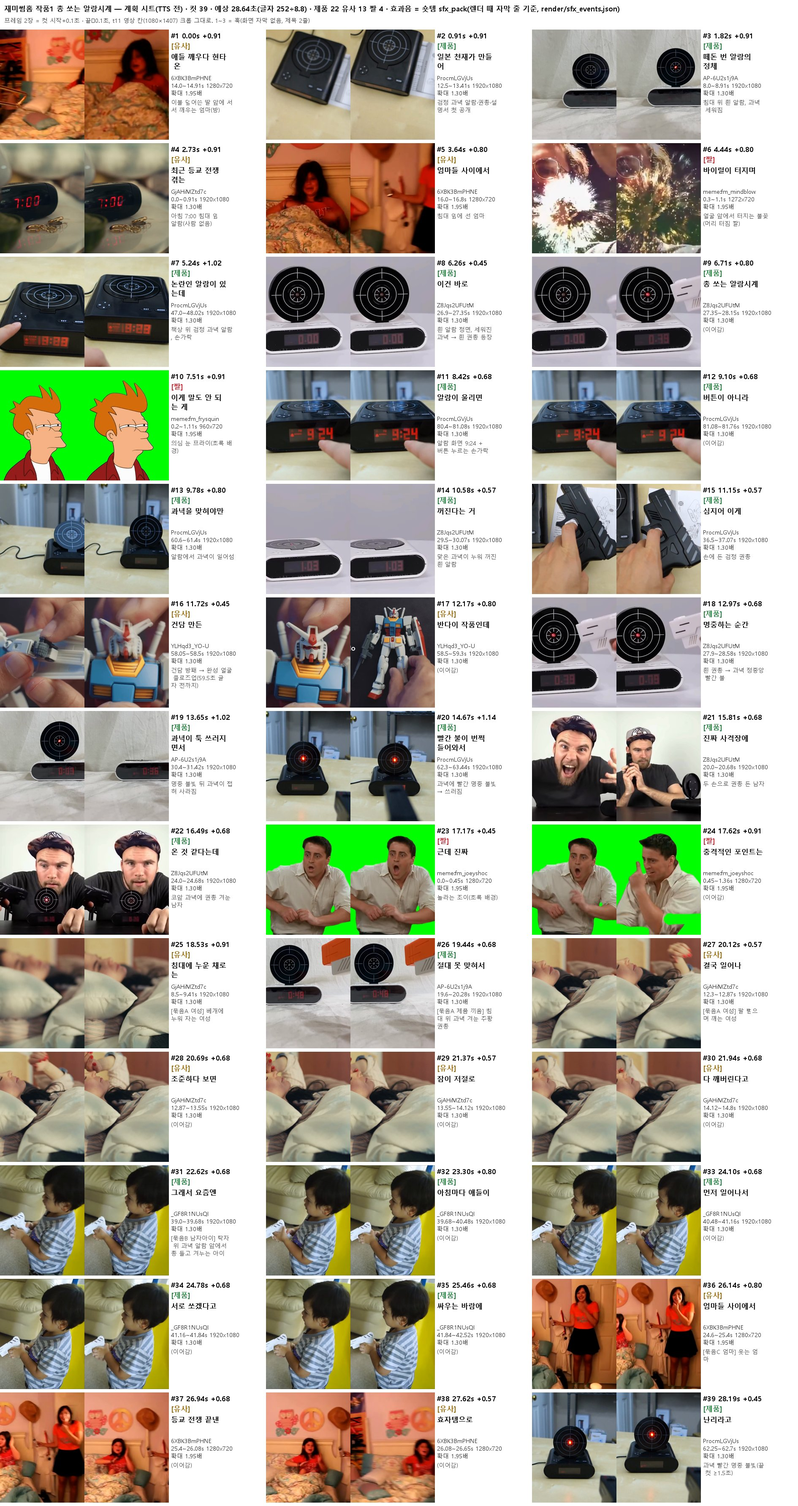
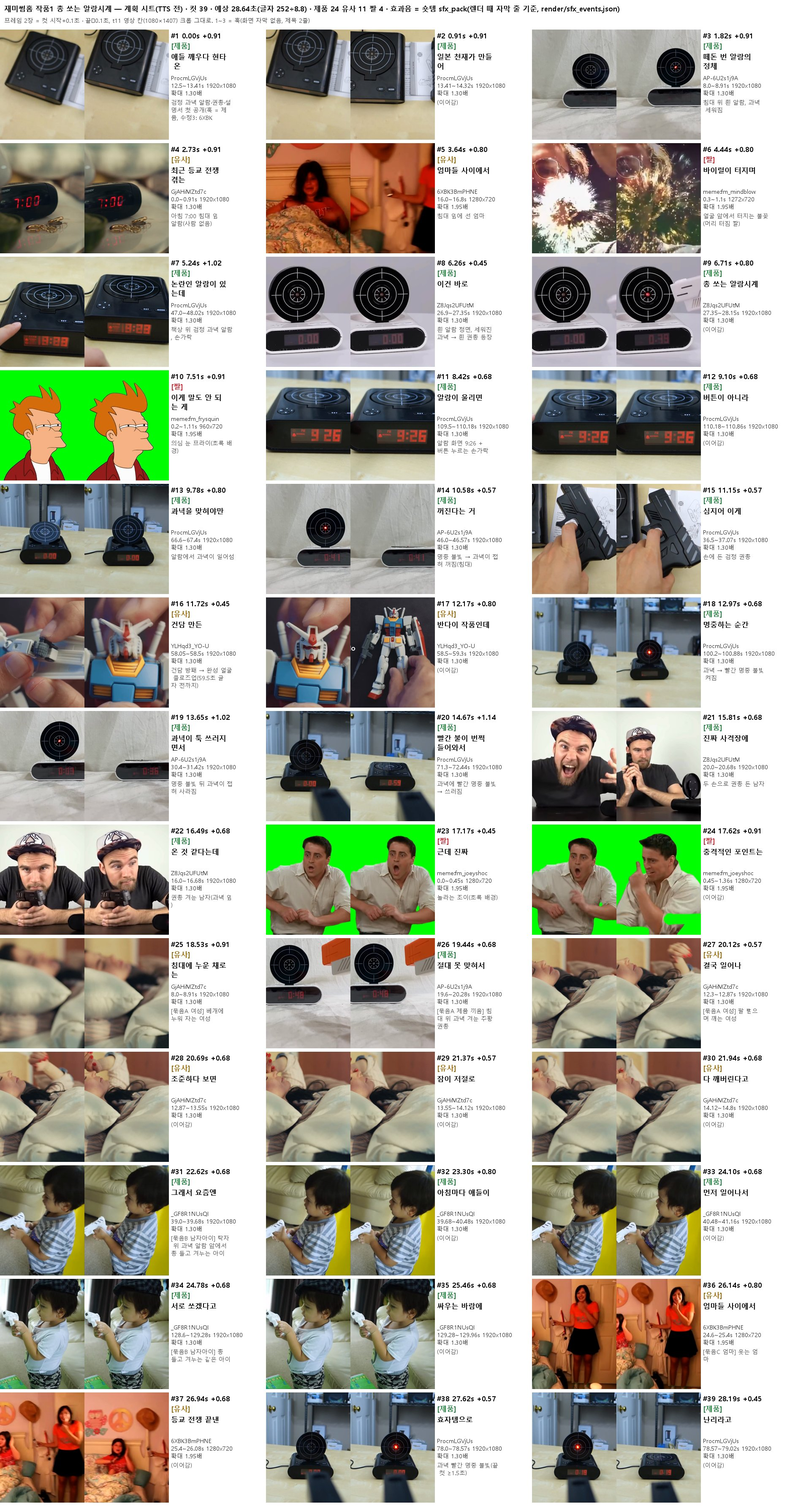
재미썸홈 작품1 수정3: 같은 소스 ±3초 중복 0(check_overlap)·효과음 density low 9발·끝 줄만 말속도 보정, 결과물 16호 갱신 (관제 097)
Claude-Session: https://claude.ai/code/session_01BTrZqzTa3Berb8VK4gs4B4

diff --git a/channel/evenshopping/작품1_총알람/render.py b/channel/evenshopping/작품1_총알람/render.py
@@ -19,9 +19,10 @@ sys.path.insert(0, str(ROOT)); sys.path.insert(0, str(D))
 import make_plan as MP  # noqa: E402
 from tools.calcopy import narr_video as N  # noqa: E402
 
-V3 = "--v3" in sys.argv          # 수정2(사장님 10-17): 묶음=한 인물·이웃 토막 한 컷·BGM 없음·끝 컷 길게. TTS 는 render_v2 것 그대로
+V4 = "--v4" in sys.argv          # 수정3(사장님 10-17): 같은 소스 ±3초 중복 금지·효과음 density=low·끝 줄 말속도 줄별 보정
+V3 = "--v3" in sys.argv or V4          # 수정2(사장님 10-17): 묶음=한 인물·이웃 토막 한 컷·BGM 없음·끝 컷 길게. TTS 는 render_v2 것 그대로
 V2 = "--v2" in sys.argv or V3          # 사장님 10-17 수정본: TTS 단계 속도↑(atempo ≤1.2)·컷 3개 교체 → render_v2·바탕화면 _수정
-R = MP.SRC / ("render_v3" if V3 else "render_v2" if V2 else "render")
+R = MP.SRC / ("render_v4" if V4 else "render_v3" if V3 else "render_v2" if V2 else "render")
 TTS_TEMPO = 1.4 if V2 else None   # Typecast output.audio_tempo
 PRE = MP.PRESET
 VOICE = "tc_68257f68bc6e3c161ab5078d"   # 필재(페이블 10-17)
@@ -29,7 +30,7 @@ CPS = PRE["measured"]["speech_rate"]["chars_per_s_total"]   # 8.8
 BGM = ROOT / "shopping_shorts/assets/bgm_lib/qiuqiu.mp3"
 BGM_DB_BELOW = 17.0                      # bench A.openvoice 17.02(말 p90 − 바닥)
 TARGET_LUFS, TP = PRE["measured"]["lufs"]["I"], -2.0
-DESK = Path.home() / "Desktop" / ("칼카피_재미썸홈_총쏘는알람시계_수정2.mp4" if "--v3" in sys.argv else "칼카피_재미썸홈_총쏘는알람시계_수정.mp4" if "--v2" in sys.argv else "칼카피_재미썸홈_총쏘는알람시계.mp4")
+DESK = Path.home() / "Desktop" / ("칼카피_재미썸홈_총쏘는알람시계_수정3.mp4" if "--v4" in sys.argv else "칼카피_재미썸홈_총쏘는알람시계_수정2.mp4" if "--v3" in sys.argv else "칼카피_재미썸홈_총쏘는알람시계_수정.mp4" if "--v2" in sys.argv else "칼카피_재미썸홈_총쏘는알람시계.mp4")
 FPS = 30
 # 스파인 칸 → sfx_pack 역할(ROLE_GROUPS). "이게 말도 안 되는 게"=limit(둥) · 반전=twist(둥) · 결과=more(띠링) — 페이블 10-17
 SFX_ROLES = ["title", "bait", "reveal", "limit", "more", "more", "twist", "land"]
@@ -41,6 +42,16 @@ def run(cmd):
 
 def run_bytes(cmd):
     return subprocess.run(cmd, check=True, stdin=subprocess.DEVNULL, capture_output=True).stdout
+
+
+def line_spans(timed, lines, dur):
+    """줄(문장)마다 [시작, 다음 줄 시작) — time_steps 가 받아쓰기로 고정한 줄 시작."""
+    st = [next(s["t0"] for s in timed if s["line"] == li) for li in range(len(lines))]
+    return [(st[i], st[i + 1] if i + 1 < len(st) else dur) for i in range(len(st))]
+
+
+def line_rates(timed, lines, dur):
+    return [round(MP.nchar(l) / (b - a), 2) for l, (a, b) in zip(lines, line_spans(timed, lines, dur))]
 
 
 def dur_of(p):
@@ -83,8 +94,38 @@ def main():
         while used >= MP.nchar(lines[li]):
             li, used = li + 1, 0
         steps.append({"text": c[0], "chars": n, "new_cut": True, "line": li}); used += n
+    if V4 and (MP.SRC / "render_v3" / "narr.wav.asr.json").exists():
+        # 같은 TTS·같은 atempo = 같은 나레(md5 같음). 받아쓰기는 매번 시각이 달라(실측 24.4↔26.3) 수정2 것을 그대로 쓴다 — 쉼 실측(24.22~24.44 쉼)과 맞는 판
+        shutil.copy(MP.SRC / "render_v3" / "narr.wav.asr.json", R / "narr.wav.asr.json")
     timed, dur = N.time_steps(steps, str(narr), lines=lines)
-    END = round(dur + (1.2 if V3 else 0.4), 3)   # 수정2: 끝 컷(과녁 명중) ≥1.5초
+    line_rate_before = line_rates(timed, lines, dur)
+    if V4:
+        # 끝 두 줄 중 평균(8.8)보다 5% 넘게 빠른 줄만 그 구간을 늘린다(atempo<1) — 전체 일괄 대신 줄별 보정
+        spans = line_spans(timed, lines, dur)
+        slow = {li: round(CPS / r, 4) for li, r in enumerate(line_rate_before) if li >= len(lines) - 2 and r > CPS * 1.05}
+        if slow:
+            narr2 = R / "narr_lines.wav"
+            parts_a, labs = [], []
+            for li, (a_, b_) in enumerate(spans):
+                f = slow.get(li)
+                parts_a.append(f"[0:a]atrim={a_:.3f}:{b_:.3f},asetpts=PTS-STARTPTS{',atempo=' + str(f) if f else ''}[l{li}]"); labs.append(f"[l{li}]")
+            run(["ffmpeg", "-y", "-i", str(narr), "-filter_complex", ";".join(parts_a) + ";" + "".join(labs) + f"concat=n={len(labs)}:v=0:a=1[o]",
+                 "-map", "[o]", "-ar", "44100", str(narr2)])
+            shutil.copy(narr2, narr)
+            # ★받아쓰기로 다시 재지 않는다 — 제미나이 시각은 늘린 뒤 줄 시작을 2초 늦게 잡았다(실측 24.4→26.3).
+            #   늘린 구간 안의 시각만 비율대로 옮긴다(앞 줄들은 그대로).
+            def remap(t):
+                out_t, shift = t, 0.0
+                for li, (a_, b_) in enumerate(spans):
+                    f = slow.get(li)
+                    if f and t > a_:
+                        shift += (min(t, b_) - a_) * (1 / f - 1)
+                return round(t + shift, 3)
+            timed = [{**x, "t0": remap(x["t0"]), "t1": remap(x["t1"])} for x in timed]
+            dur = dur_of(narr)
+        print("줄별 보정", slow)
+    line_rate_after = line_rates(timed, lines, dur)
+    END = round(dur + (0.5 if V4 else 1.2 if V3 else 0.4), 3)   # 수정2: 끝 컷(과녁 명중) ≥1.5초
     timed[-1]["t1"] = END
 
     # 재료: 토막마다 컷 1개, t11 영상 칸 비율 크롭 → 1080×1407, 원음 없음, 프레임 정확
@@ -152,8 +193,8 @@ def main():
                     "caption_lines": [c["caption"] for c in mine], "cap_durs": [round(c["t1"] - c["t0"], 3) for c in mine],
                     "cap_lead": 0.0, "cap_offset": 0.0, "role": roles[li]})
     pname, pdir = SP.pack_for(0)
-    pack = {"name": pname, "dir": pdir, "density": "normal", "level": "normal", "mute_beats": []}
-    plan = SP.plan_events(stl)
+    pack = {"name": pname, "dir": pdir, "density": "low" if V4 else "normal", "level": "normal", "mute_beats": []}
+    plan = SP.plan_events(stl, density=pack["density"])
     evs = SP.events(stl, pack)
     (R / "sfx_events.json").write_text(json.dumps({"pack": pname, "plan": plan, "events": evs, "timeline": stl}, ensure_ascii=False, indent=1), encoding="utf-8")
     ins, flt, lab = ["-i", str(narr), "-stream_loop", "-1", "-i", str(BGM)], [], []
@@ -185,7 +226,7 @@ def main():
     fI, fpk = lufs(final)
     tsum = {k: round(sum(g["dur"] for g in groups if g["kind"] == k), 2) for k in ("제품", "유사", "짤")}
     rep = {"final": str(final), "desktop": str(DESK), "md5": md5, "dur": dur_of(final), "lufs": fI, "peak_dbfs": fpk, "tempo": tempo,
-           "cps_out": round(chars / dn, 2), "pieces": len(cuts), "cuts": len(groups), "cut_median": round(sorted(g["dur"] for g in groups)[len(groups) // 2], 3), "cut_min": min(g["dur"] for g in groups), "bgm": "on" if bgm_on else "none", "last_group": [g["dur"] for g in groups if g["pieces"][0] >= 31],
+           "cps_out": round(chars / dn, 2), "pieces": len(cuts), "cuts": len(groups), "cut_median": round(sorted(g["dur"] for g in groups)[len(groups) // 2], 3), "cut_min": min(g["dur"] for g in groups), "bgm": "on" if bgm_on else "none", "sfx_count": len(evs), "line_rate_before": line_rate_before, "line_rate_after": line_rate_after, "last_group": [g["dur"] for g in groups if g["pieces"][0] >= 31],
            "time_by_kind": tsum, "max_caption": max(len(c["caption"]) for c in cuts), "bgm_gain_db": round(g, 2), "mix_gain_db": round(gain, 2)}
     (R / "timeline.json").write_text(json.dumps({"report": rep, "cuts": cuts, "groups": groups, "tl": tl}, ensure_ascii=False, indent=1), encoding="utf-8")
     print(json.dumps(rep, ensure_ascii=False))

diff --git a/channel/evenshopping/작품1_총알람/make_plan.py b/channel/evenshopping/작품1_총알람/make_plan.py
@@ -34,8 +34,8 @@ SENTENCES = [
 # (자막 조각, 칸, 소스, 시작초, crop_x, 효과음, 화면에 보이는 것)
 KID = "_GF8R1NUsQI"
 CUTS = [   # 수정2(사장님 10-17): "+" = 앞 컷을 끊지 않고 이어감(자막만 바뀜). 이야기 한 묶음 = 한 인물·한 영상 줄기.
-    ("애들 깨우다 현타 온", "유사", "6XBK3BmPHNE", 14.0, 400, "", "이불 덮어쓴 딸 앞에 서서 깨우는 엄마(방)"),
-    ("일본 천재가 만들어", "제품", "ProcmLGVjUs", 12.5, None, "", "검정 과녁 알람·권총·설명서 첫 공개"),
+    ("애들 깨우다 현타 온", "제품", "ProcmLGVjUs", 12.5, None, "", "검정 과녁 알람·권총·설명서 첫 공개(훅 = 제품, 수정3: 6XBK 0초/4초 중복 제거)"),
+    ("일본 천재가 만들어", "+", "+", 0, None, "", "(이어감)"),
     ("떼돈 번 알람의 정체", "제품", "AP-6U2s1j9A", 8.0, None, "", "침대 위 흰 알람, 과녁 세워짐"),
     ("최근 등교 전쟁 겪는", "유사", "GjAHiMZtd7c", 0.0, None, "", "아침 7:00 침대 옆 알람(사람 없음)"),
     ("엄마들 사이에서", "유사", "6XBK3BmPHNE", 16.0, 420, "", "침대 옆에 선 엄마"),
@@ -44,21 +44,21 @@ CUTS = [   # 수정2(사장님 10-17): "+" = 앞 컷을 끊지 않고 이어감(
     ("이건 바로", "제품", "Z8Jqs2UFUtM", 26.9, None, "", "흰 알람 정면, 세워진 과녁 → 흰 권총 등장"),
     ("총 쏘는 알람시계", "+", "+", 0, None, "", "(이어감)"),
     ("이게 말도 안 되는 게", "짤", "meme:fm_frysquint", 0.2, None, "", "의심 눈 프라이(초록 배경)"),
-    ("알람이 울리면", "제품", "ProcmLGVjUs", 80.4, None, "", "알람 화면 9:24 + 버튼 누르는 손가락"),
+    ("알람이 울리면", "제품", "ProcmLGVjUs", 109.5, None, "", "알람 화면 9:26 + 버튼 누르는 손가락"),
     ("버튼이 아니라", "+", "+", 0, None, "", "(이어감)"),
-    ("과녁을 맞혀야만", "제품", "ProcmLGVjUs", 60.6, None, "", "알람에서 과녁이 일어섬"),
-    ("꺼진다는 거", "제품", "Z8Jqs2UFUtM", 29.5, None, "", "맞은 과녁이 누워 꺼진 흰 알람"),
+    ("과녁을 맞혀야만", "제품", "ProcmLGVjUs", 66.6, None, "", "알람에서 과녁이 일어섬"),
+    ("꺼진다는 거", "제품", "AP-6U2s1j9A", 46.0, None, "", "명중 불빛 → 과녁이 접혀 꺼짐(침대)"),
     ("심지어 이게", "제품", "ProcmLGVjUs", 36.5, None, "", "손에 든 검정 권총"),
     ("건담 만든", "유사", "YLHqd3_YO-U", 58.05, None, "", "건담 방패 → 완성 얼굴 클로즈업(59.5초 글자 전까지)"),
     ("반다이 작품인데", "+", "+", 0, None, "", "(이어감)"),
-    ("명중하는 순간", "제품", "Z8Jqs2UFUtM", 27.9, 640, "", "흰 권총 → 과녁 정중앙 빨간 불"),
+    ("명중하는 순간", "제품", "ProcmLGVjUs", 100.2, None, "", "과녁 → 빨간 명중 불빛 켜짐"),
     ("과녁이 툭 쓰러지면서", "제품", "AP-6U2s1j9A", 30.4, None, "", "명중 불빛 뒤 과녁이 접혀 사라짐"),
-    ("빨간 불이 번쩍 들어와서", "제품", "ProcmLGVjUs", 62.3, None, "", "과녁에 빨간 명중 불빛 → 쓰러짐"),
+    ("빨간 불이 번쩍 들어와서", "제품", "ProcmLGVjUs", 71.3, None, "", "과녁에 빨간 명중 불빛 → 쓰러짐"),
     ("진짜 사격장에", "제품", "Z8Jqs2UFUtM", 20.0, None, "", "두 손으로 권총 든 남자"),
-    ("온 것 같다는데", "제품", "Z8Jqs2UFUtM", 24.0, None, "", "코앞 과녁에 권총 겨눈 남자"),
+    ("온 것 같다는데", "제품", "Z8Jqs2UFUtM", 16.0, None, "", "권총 겨눈 남자(과녁 옆)"),
     ("근데 진짜", "짤", "meme:fm_joeyshock", 0.0, None, "", "놀라는 조이(초록 배경)"),
     ("충격적인 포인트는", "+", "+", 0, None, "", "(이어감)"),
-    ("침대에 누운 채로는", "유사", "GjAHiMZtd7c", 8.5, None, "", "[묶음A 여성] 베개에 누워 자는 여성"),
+    ("침대에 누운 채로는", "유사", "GjAHiMZtd7c", 8.0, None, "", "[묶음A 여성] 베개에 누워 자는 여성"),
     ("절대 못 맞혀서", "제품", "AP-6U2s1j9A", 19.6, 900, "", "[묶음A 제품 끼움] 침대 위 과녁 겨눈 주황 권총"),
     ("결국 일어나", "유사", "GjAHiMZtd7c", 12.3, None, "", "[묶음A 여성] 팔 뻗으며 깨는 여성"),
     ("조준하다 보면", "+", "+", 0, None, "", "(이어감)"),
@@ -67,12 +67,12 @@ CUTS = [   # 수정2(사장님 10-17): "+" = 앞 컷을 끊지 않고 이어감(
     ("그래서 요즘엔", "제품", KID, 39.0, 1090, "", "[묶음B 남자아이] 탁자 위 과녁 알람 앞에서 총 들고 겨누는 아이"),
     ("아침마다 애들이", "+", "+", 0, None, "", "(이어감)"),
     ("먼저 일어나서", "+", "+", 0, None, "", "(이어감)"),
-    ("서로 쏘겠다고", "+", "+", 0, None, "", "(이어감)"),
+    ("서로 쏘겠다고", "제품", KID, 128.6, 950, "", "[묶음B 남자아이] 총 들고 겨누는 같은 아이"),
     ("싸우는 바람에", "+", "+", 0, None, "", "(이어감)"),
     ("엄마들 사이에서", "유사", "6XBK3BmPHNE", 24.6, 700, "", "[묶음C 엄마] 웃는 엄마"),
     ("등교 전쟁 끝낸", "+", "+", 0, None, "", "(이어감)"),
-    ("효자템으로", "+", "+", 0, None, "", "(이어감)"),
-    ("난리라고", "제품", "ProcmLGVjUs", 62.25, None, "", "과녁 빨간 명중 불빛(끝 컷 ≥1.5초)"),
+    ("효자템으로", "제품", "ProcmLGVjUs", 78.0, None, "", "과녁 빨간 명중 불빛(끝 컷 ≥1.5초)"),
+    ("난리라고", "+", "+", 0, None, "", "(이어감)"),
 ]
 
 

diff --git a/channel/evenshopping/작품1_총알람/check_overlap.py b/channel/evenshopping/작품1_총알람/check_overlap.py
@@ -1,0 +1,21 @@
+# -*- coding: utf-8 -*-
+"""완성본 컷 목록에서 같은 소스의 겹치거나 ±3초 안 구간이 두 번 쓰였나(사장님 10-17 수정3 "장면 중복 금지").
+    PYTHONUTF8=1 py channel/evenshopping/작품1_총알람/check_overlap.py <render 폴더>"""
+import json
+import sys
+from pathlib import Path
+
+GAP = 3.0
+d = json.loads((Path(sys.argv[1]) / "timeline.json").read_text(encoding="utf-8"))
+rows = [(g["src"], g["ss"], round(g["ss"] + g["dur"], 2), g["t0"], g["pieces"]) for g in d["groups"]]
+bad = []
+for i, a in enumerate(rows):
+    for b in rows[i + 1:]:
+        if a[0] == b[0] and a[1] - GAP < b[2] and b[1] - GAP < a[2]:
+            bad.append((a, b))
+for r in sorted(rows):
+    print(f"{r[0]:22s} {r[1]:7.2f}~{r[2]:7.2f}  (영상 {r[3]:.2f}초, 토막 {r[4]})")
+print("겹침/±3초:", len(bad))
+for a, b in bad:
+    print("  ★", a, b)
+sys.exit(1 if bad else 0)
